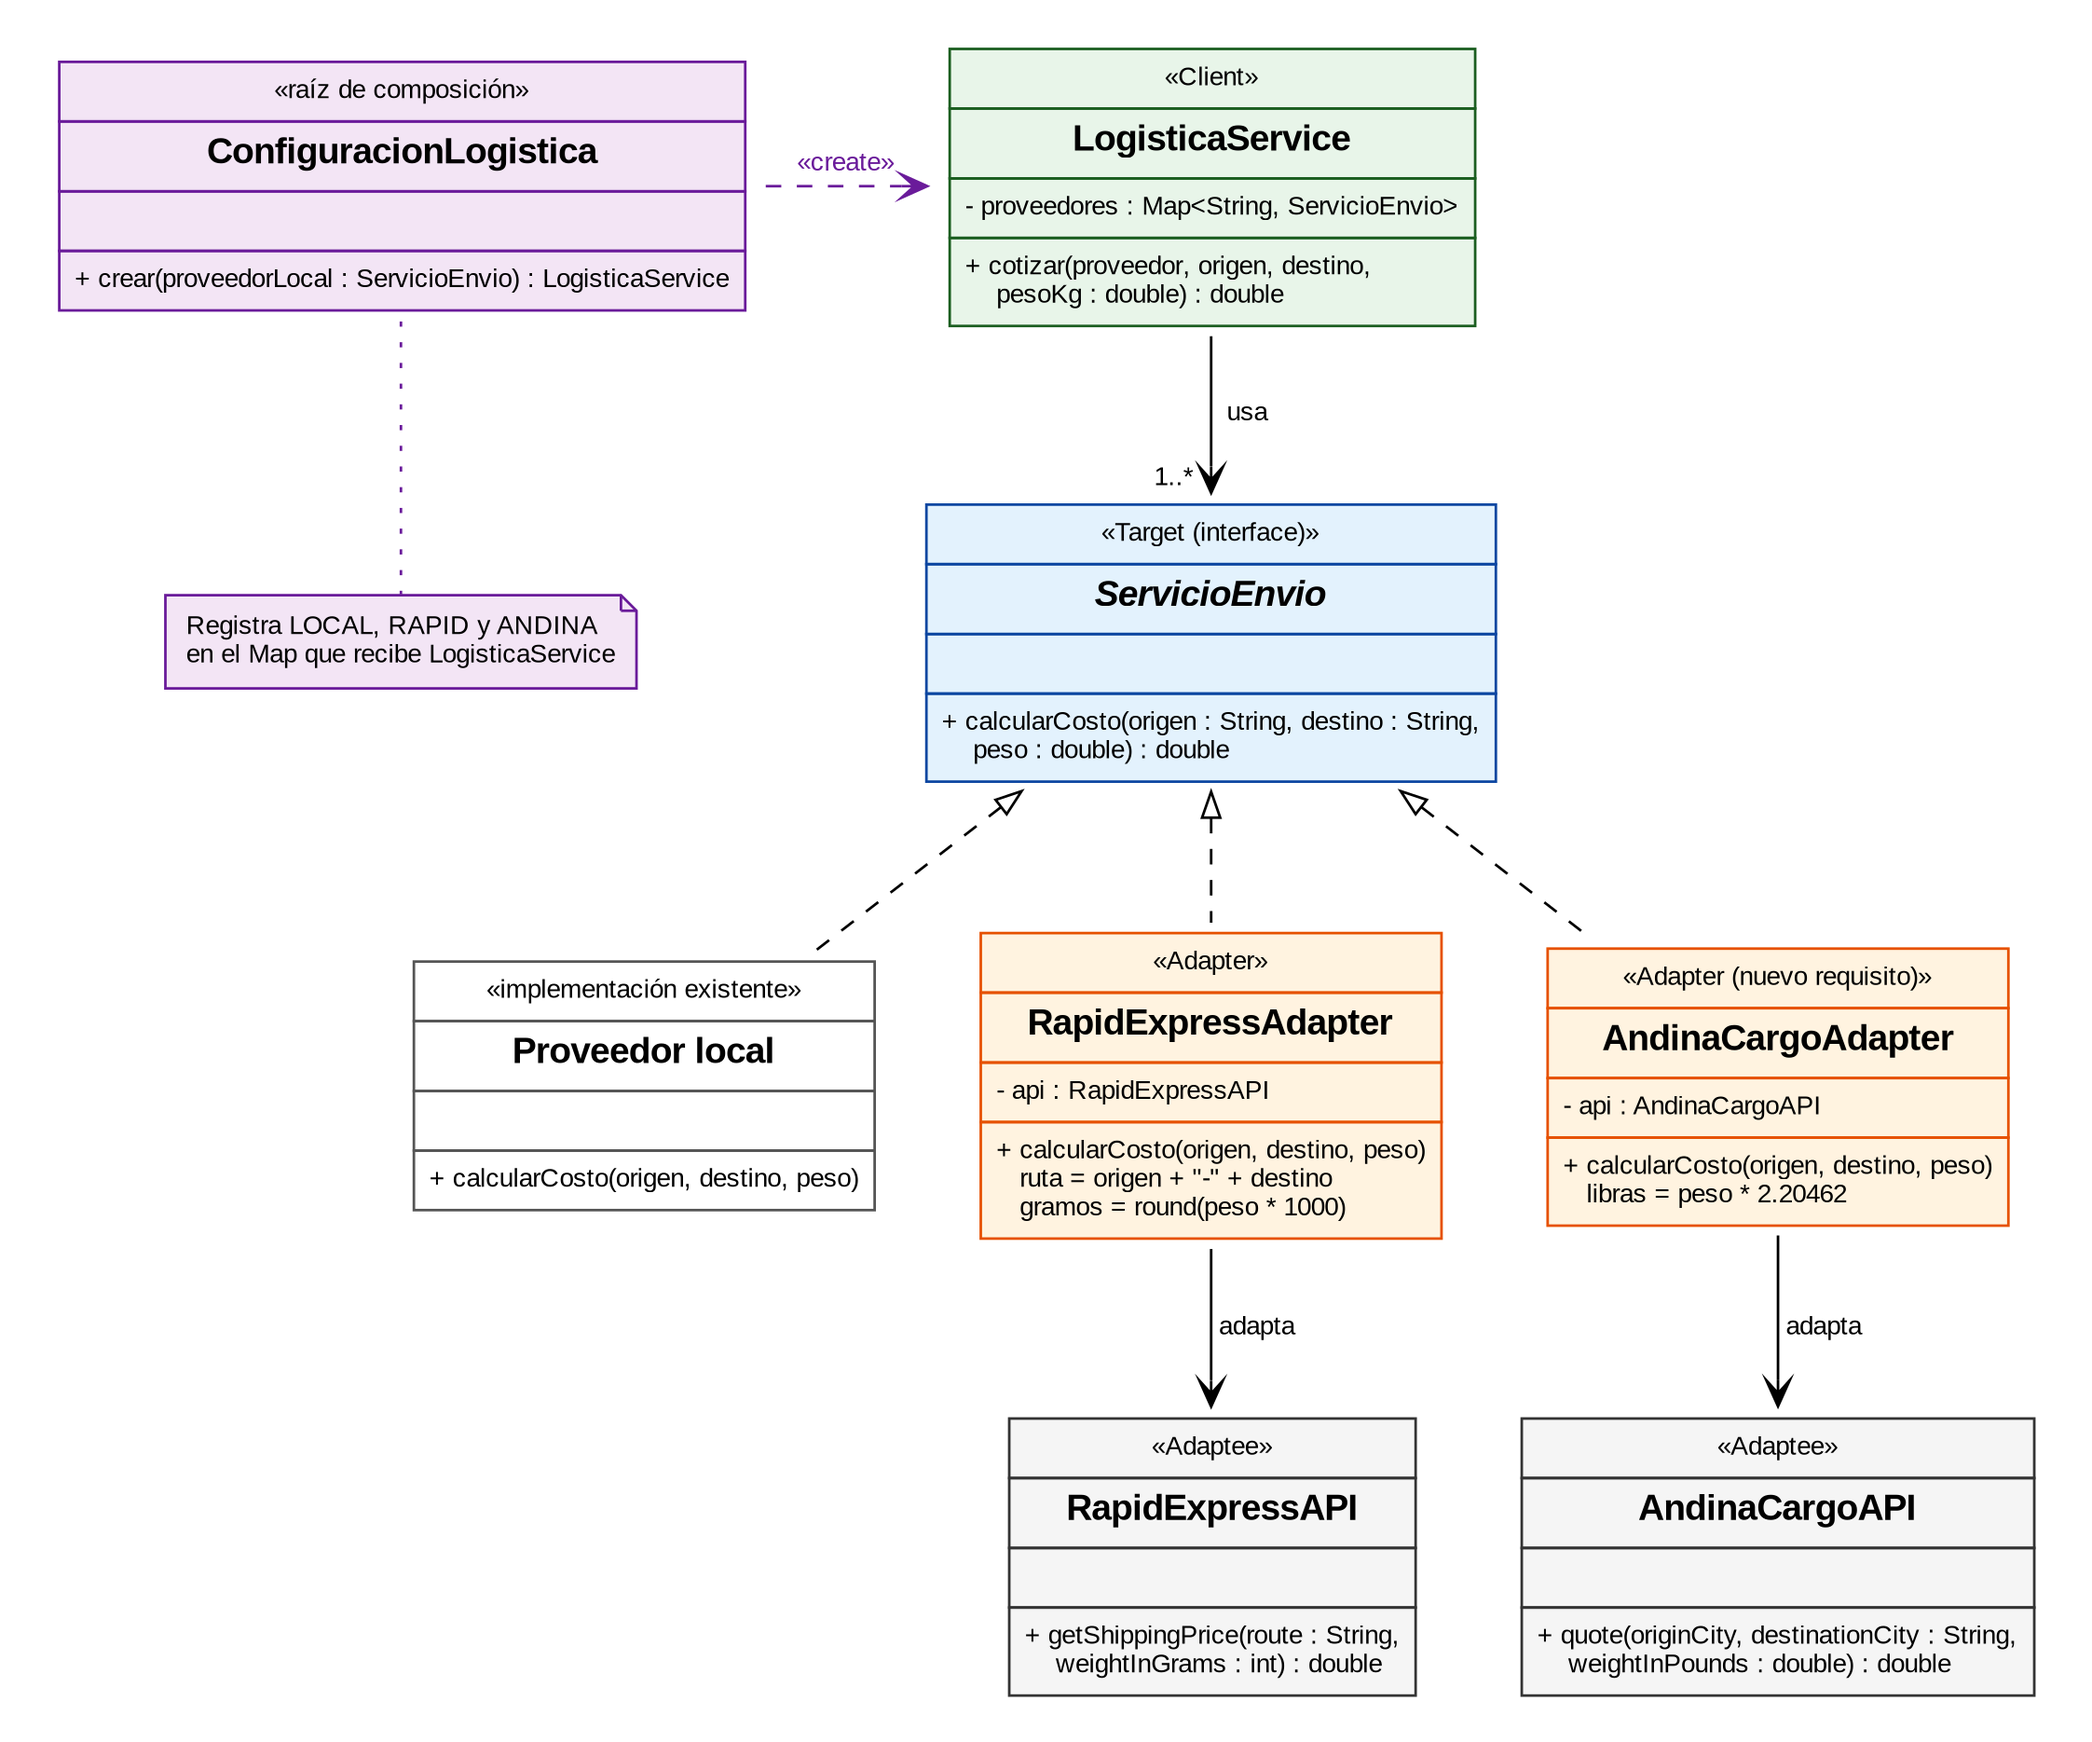
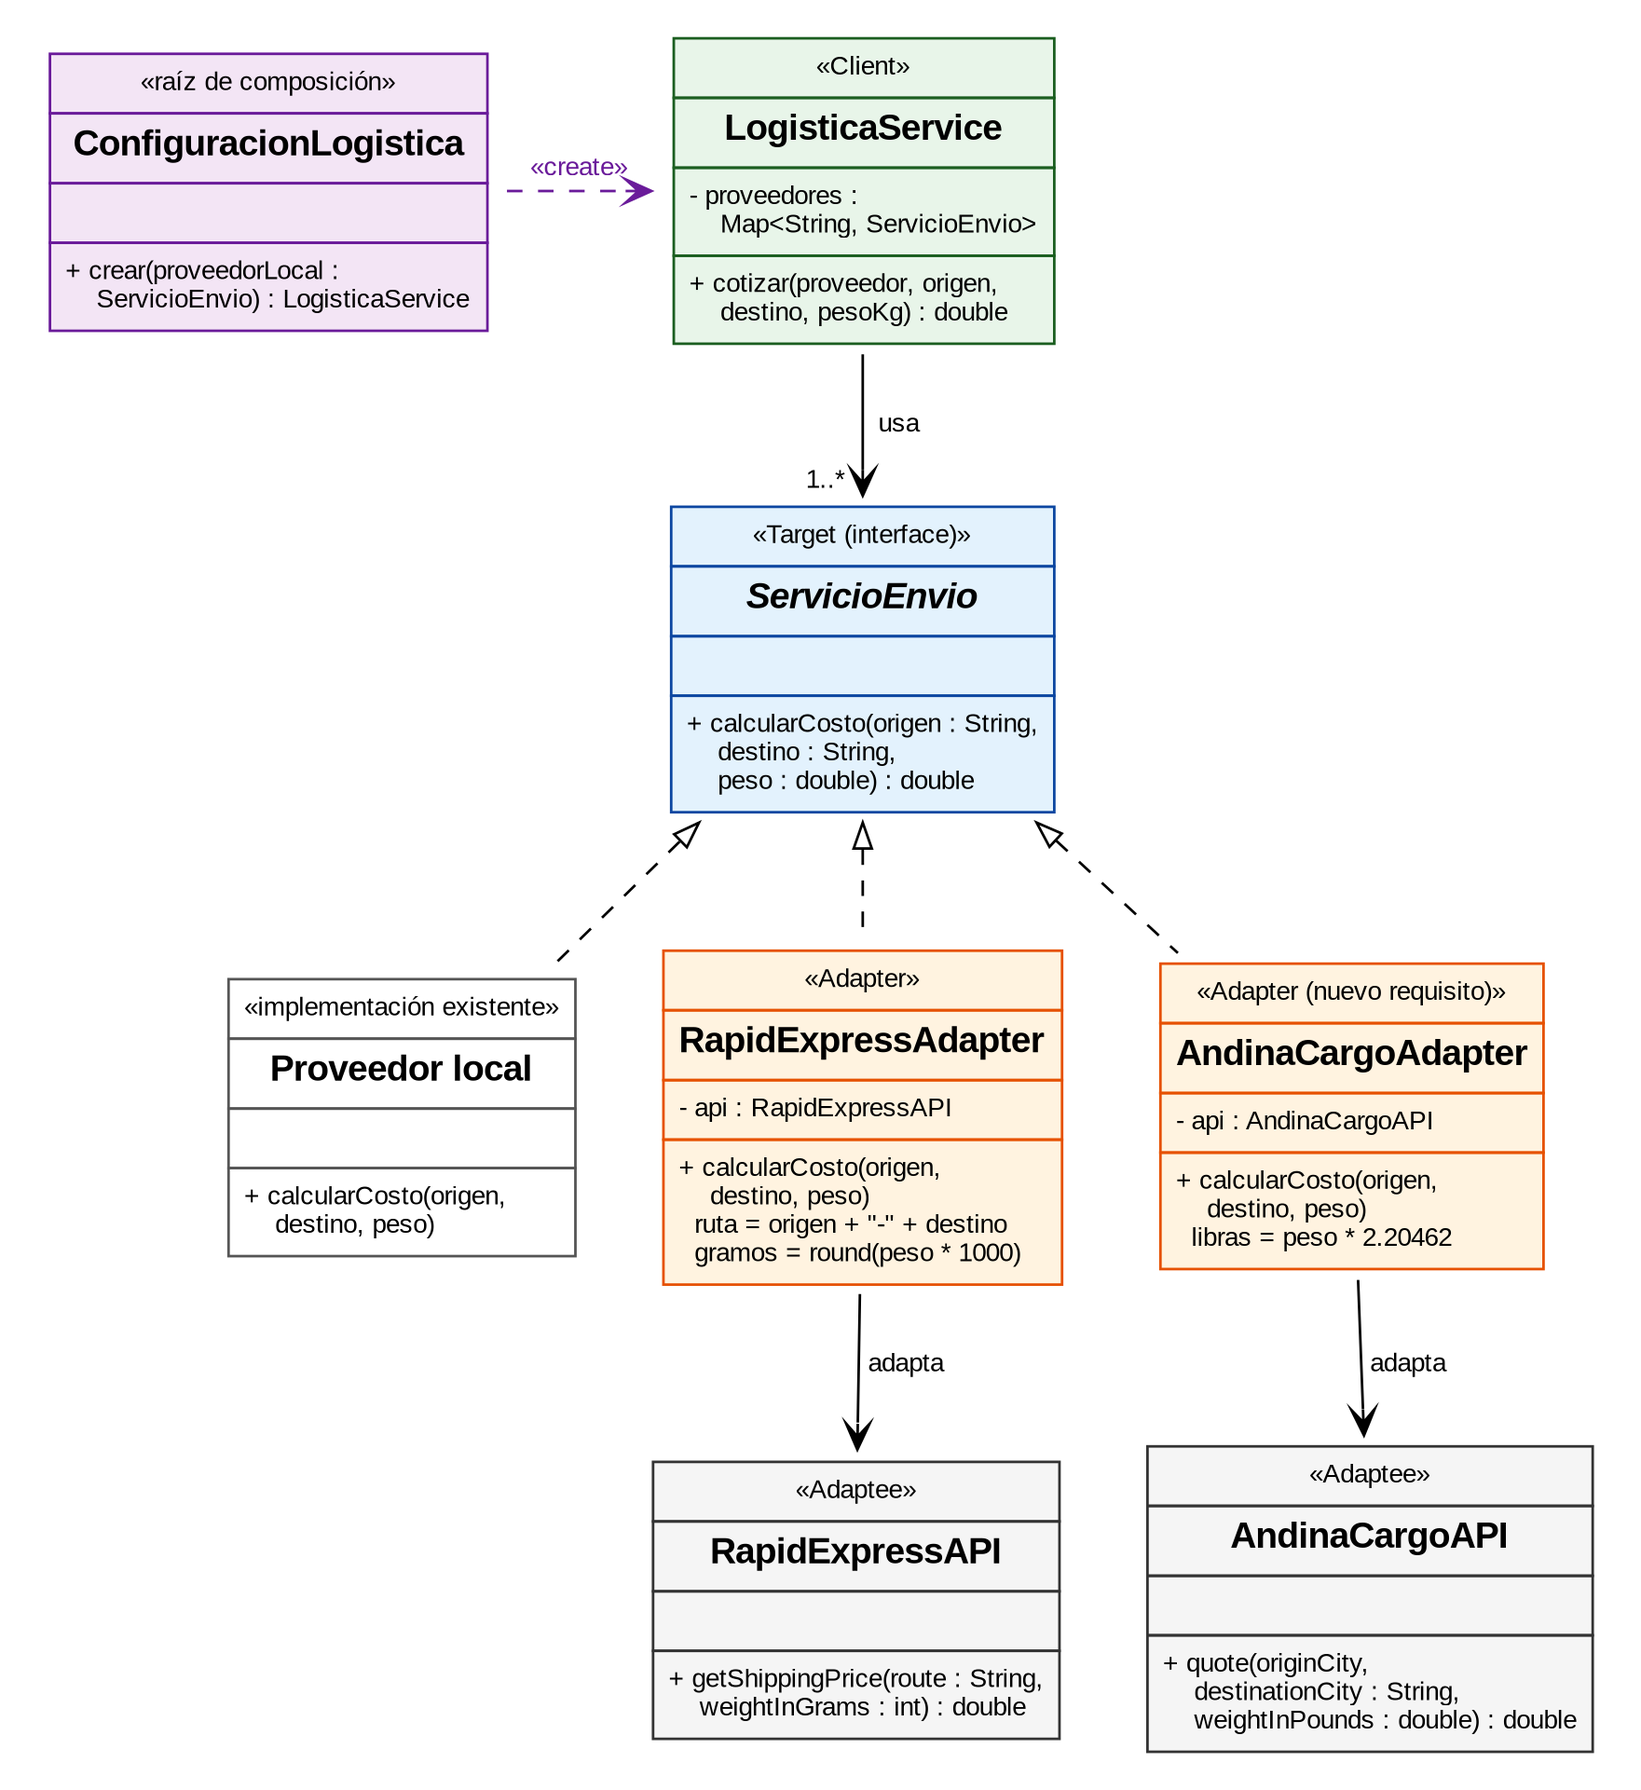
docs: diagramas compactos para lectura a ancho de página

diff --git a/docs/img/generar_diagramas.py b/docs/img/generar_diagramas.py
@@ -17,33 +17,32 @@ def render(dot, out, dpi=200):
     open(out+'.dot','w',encoding='utf-8').write(dot)
     subprocess.run(['dot','-Tpng',f'-Gdpi={dpi}',out+'.dot','-o',out+'.png'],check=True)
 
+
+RUTA_LINE = '   ruta = origen + "-" + destino'
 # ---------- Figura 1: mapa de dependencias ANTES ----------
 d1=f'''digraph G {{
- graph [rankdir=TB, nodesep=0.7, ranksep=0.8, fontname="{FONT}", pad=0.2];
+ graph [rankdir=TB, nodesep=0.5, ranksep=0.7, fontname="{FONT}", pad=0.15];
  node [fontname="{FONT}"]; edge [fontname="{FONT}", fontsize=10];
- A [{cls("LogisticaServiceAjustado", attrs=["- proveedorLocal : ServicioEnvio","- rapidExpress : RapidExpressAPI"], meths=["+ cotizar(proveedor : String, origen : String,","    destino : String, pesoKg : double) : double"], fill="#FDECEA", border="#B71C1C")}];
- S [{cls("ServicioEnvio", stereo="interface", meths=["+ calcularCosto(origen, destino, peso : double) : double"], italic=True, fill="#EEF3F8")}];
+ A [{cls("LogisticaServiceAjustado", attrs=["- proveedorLocal : ServicioEnvio","- rapidExpress : RapidExpressAPI"], meths=["+ cotizar(proveedor : String,","    origen : String, destino : String,","    pesoKg : double) : double"], fill="#FDECEA", border="#B71C1C")}];
+ S [{cls("ServicioEnvio", stereo="interface", meths=["+ calcularCosto(origen : String,","    destino : String,","    peso : double) : double"], italic=True, fill="#EEF3F8")}];
  R [{cls("RapidExpressAPI", stereo="librería externa (no modificable)", meths=["+ getShippingPrice(route : String,","    weightInGrams : int) : double"], fill="#F5F5F5")}];
  A -> S [arrowhead=vee, label="  usa (abstracción)"];
- A -> R [arrowhead=vee, color="#B71C1C", fontcolor="#B71C1C", penwidth=2, label="  depende de clase concreta\\l  (unidades y formato propios)\\l"];
- N [shape=note, style=filled, fillcolor="#FFF8E1", color="#8D6E00", fontsize=10, label="Cambio futuro: 3 operadores más\\l→ 3 campos nuevos + 3 bloques if\\l   + 3 conversiones dentro de cotizar()\\l"];
- A -> N [style=dotted, arrowhead=none, color="#8D6E00"];
+ A -> R [arrowhead=vee, color="#B71C1C", fontcolor="#B71C1C", penwidth=2, label="  depende de clase concreta\\l  (formato y unidades propios)\\l"];
 }}'''
 render(d1,'fig1_dependencias_antes')
 
-RUTA_LINE = '   ruta = origen + "-" + destino'
 # ---------- Figura 2: UML Adapter adaptado ----------
 d2=f'''digraph G {{
- graph [rankdir=TB, nodesep=0.35, ranksep=0.7, fontname="{FONT}", pad=0.2, newrank=true];
+ graph [rankdir=TB, nodesep=0.25, ranksep=0.6, fontname="{FONT}", pad=0.15, newrank=true];
  node [fontname="{FONT}"]; edge [fontname="{FONT}", fontsize=10];
- CFG [{cls("ConfiguracionLogistica", stereo="raíz de composición", meths=["+ crear(proveedorLocal : ServicioEnvio) : LogisticaService"], fill="#F3E5F5", border="#6A1B9A")}];
- C [{cls("LogisticaService", stereo="Client", attrs=["- proveedores : Map<String, ServicioEnvio>"], meths=["+ cotizar(proveedor, origen, destino,","    pesoKg : double) : double"], fill="#E8F5E9", border="#1B5E20")}];
- T [{cls("ServicioEnvio", stereo="Target (interface)", meths=["+ calcularCosto(origen : String, destino : String,","    peso : double) : double"], italic=True, fill="#E3F2FD", border="#0D47A1")}];
- L [{cls("Proveedor local", stereo="implementación existente", meths=["+ calcularCosto(origen, destino, peso)"], fill="#FFFFFF", border="#555555")}];
- AR [{cls("RapidExpressAdapter", stereo="Adapter", attrs=["- api : RapidExpressAPI"], meths=["+ calcularCosto(origen, destino, peso)",RUTA_LINE,"   gramos = round(peso * 1000)"], fill="#FFF3E0", border="#E65100")}];
- AA [{cls("AndinaCargoAdapter", stereo="Adapter (nuevo requisito)", attrs=["- api : AndinaCargoAPI"], meths=["+ calcularCosto(origen, destino, peso)","   libras = peso * 2.20462"], fill="#FFF3E0", border="#E65100")}];
+ CFG [{cls("ConfiguracionLogistica", stereo="raíz de composición", meths=["+ crear(proveedorLocal :","    ServicioEnvio) : LogisticaService"], fill="#F3E5F5", border="#6A1B9A")}];
+ C [{cls("LogisticaService", stereo="Client", attrs=["- proveedores :","    Map<String, ServicioEnvio>"], meths=["+ cotizar(proveedor, origen,","    destino, pesoKg) : double"], fill="#E8F5E9", border="#1B5E20")}];
+ T [{cls("ServicioEnvio", stereo="Target (interface)", meths=["+ calcularCosto(origen : String,","    destino : String,","    peso : double) : double"], italic=True, fill="#E3F2FD", border="#0D47A1")}];
+ L [{cls("Proveedor local", stereo="implementación existente", meths=["+ calcularCosto(origen,","    destino, peso)"], fill="#FFFFFF", border="#555555")}];
+ AR [{cls("RapidExpressAdapter", stereo="Adapter", attrs=["- api : RapidExpressAPI"], meths=["+ calcularCosto(origen,","    destino, peso)","  ruta = origen + \"-\" + destino","  gramos = round(peso * 1000)"], fill="#FFF3E0", border="#E65100")}];
+ AA [{cls("AndinaCargoAdapter", stereo="Adapter (nuevo requisito)", attrs=["- api : AndinaCargoAPI"], meths=["+ calcularCosto(origen,","    destino, peso)","  libras = peso * 2.20462"], fill="#FFF3E0", border="#E65100")}];
  XR [{cls("RapidExpressAPI", stereo="Adaptee", meths=["+ getShippingPrice(route : String,","    weightInGrams : int) : double"], fill="#F5F5F5")}];
- XA [{cls("AndinaCargoAPI", stereo="Adaptee", meths=["+ quote(originCity, destinationCity : String,","    weightInPounds : double) : double"], fill="#F5F5F5")}];
+ XA [{cls("AndinaCargoAPI", stereo="Adaptee", meths=["+ quote(originCity,","    destinationCity : String,","    weightInPounds : double) : double"], fill="#F5F5F5")}];
  C -> T [arrowhead=vee, headlabel="1..*  ", label="  usa"];
  T -> L [dir=back, arrowtail=empty, style=dashed];
  T -> AR [dir=back, arrowtail=empty, style=dashed];
@@ -51,8 +50,6 @@ d2=f'''digraph G {{
  AR -> XR [arrowhead=vee, label=" adapta"];
  AA -> XA [arrowhead=vee, label=" adapta"];
  CFG -> C [arrowhead=vee, style=dashed, color="#6A1B9A", fontcolor="#6A1B9A", label="«create»"];
- CN [shape=note, style=filled, fillcolor="#F3E5F5", color="#6A1B9A", fontsize=10, label="Registra LOCAL, RAPID y ANDINA\\len el Map que recibe LogisticaService\\l"];
- CFG -> CN [style=dotted, arrowhead=none, color="#6A1B9A"];
  {{rank=same; CFG; C}}
  {{rank=same; L; AR; AA}}
  {{rank=same; XR; XA}}
@@ -61,18 +58,18 @@ render(d2,'fig2_uml_adapter')
 
 # ---------- Figura 3: ubicación arquitectónica (puertos y adaptadores) ----------
 d3=f'''digraph G {{
- graph [rankdir=LR, nodesep=0.3, ranksep=0.75, fontname="{FONT}", pad=0.2, compound=true, newrank=true];
- node [fontname="{FONT}", shape=box, style="rounded,filled", fillcolor="#FFFFFF", fontsize=11]; edge [fontname="{FONT}", fontsize=9];
- subgraph cluster_in {{ label="Capa de aplicación\\n(ilustrativa)"; style="rounded,filled"; fillcolor="#F3E5F5"; color="#6A1B9A"; fontsize=11;
-   UC [label="Servicio de pedidos\\n(caso de uso:\\ncotizar envío)"]; }}
- subgraph cluster_core {{ label="Núcleo: lógica de logística"; style="rounded,filled"; fillcolor="#E8F5E9"; color="#1B5E20"; fontsize=11;
-   LS [label="LogisticaService\\n(Client)"]; P [label="«puerto de salida»\\nServicioEnvio\\n(Target)", fillcolor="#E3F2FD", color="#0D47A1"]; }}
- subgraph cluster_ad {{ label="Adaptadores de infraestructura\\n(patrón Adapter)"; style="rounded,filled"; fillcolor="#FFF3E0"; color="#E65100"; fontsize=11;
-   AL [label="Proveedor local\\n(ya conforme)"]; AR [label="RapidExpressAdapter"]; AA [label="AndinaCargoAdapter"]; AN [label="Adapter N…\\n(futuros operadores)", style="rounded,dashed,filled"]; }}
- subgraph cluster_ext {{ label="Sistemas externos\\n(no modificables)"; style="rounded,filled"; fillcolor="#F5F5F5"; color="#555555"; fontsize=11;
-   EL [label="API proveedor local"]; ER [label="RapidExpressAPI"]; EA [label="AndinaCargoAPI"]; EN [label="API operador N", style="rounded,dashed,filled"]; }}
+ graph [rankdir=TB, nodesep=0.25, ranksep=0.5, fontname="{FONT}", pad=0.15, newrank=true];
+ node [fontname="{FONT}", shape=box, style="rounded,filled", fillcolor="#FFFFFF", fontsize=12]; edge [fontname="{FONT}", fontsize=10];
+ subgraph cluster_in {{ label="Capa de aplicación (ilustrativa)"; style="rounded,filled"; fillcolor="#F3E5F5"; color="#6A1B9A"; fontsize=12;
+   UC [label="Servicio de pedidos (caso de uso: cotizar envío)"]; }}
+ subgraph cluster_core {{ label="Núcleo: lógica de logística"; style="rounded,filled"; fillcolor="#E8F5E9"; color="#1B5E20"; fontsize=12;
+   LS [label="LogisticaService (Client)"]; P [label="«puerto de salida»  ServicioEnvio (Target)", fillcolor="#E3F2FD", color="#0D47A1"]; }}
+ subgraph cluster_ad {{ label="Adaptadores de infraestructura (patrón Adapter)"; style="rounded,filled"; fillcolor="#FFF3E0"; color="#E65100"; fontsize=12;
+   AL [label="Proveedor local\\n(ya conforme)"]; AR [label="Rapid-\\nExpressAdapter"]; AA [label="AndinaCargo-\\nAdapter"]; AN [label="Adapter N\\n(futuros)", style="rounded,dashed,filled"]; }}
+ subgraph cluster_ext {{ label="Sistemas externos (no modificables)"; style="rounded,filled"; fillcolor="#F5F5F5"; color="#555555"; fontsize=12;
+   EL [label="API proveedor\\nlocal"]; ER [label="Rapid-\\nExpressAPI"]; EA [label="AndinaCargo-\\nAPI"]; EN [label="API operador\\nN", style="rounded,dashed,filled"]; }}
  UC -> LS [label=" invoca"];
- LS -> P [label=" depende de la\\l abstracción\\l"];
+ LS -> P [label=" depende de la abstracción"];
  P -> AL [dir=back, arrowtail=empty, style=dashed]; P -> AR [dir=back, arrowtail=empty, style=dashed]; P -> AA [dir=back, arrowtail=empty, style=dashed]; P -> AN [dir=back, arrowtail=empty, style=dashed];
  AL -> EL; AR -> ER; AA -> EA; AN -> EN [style=dashed];
 }}'''
